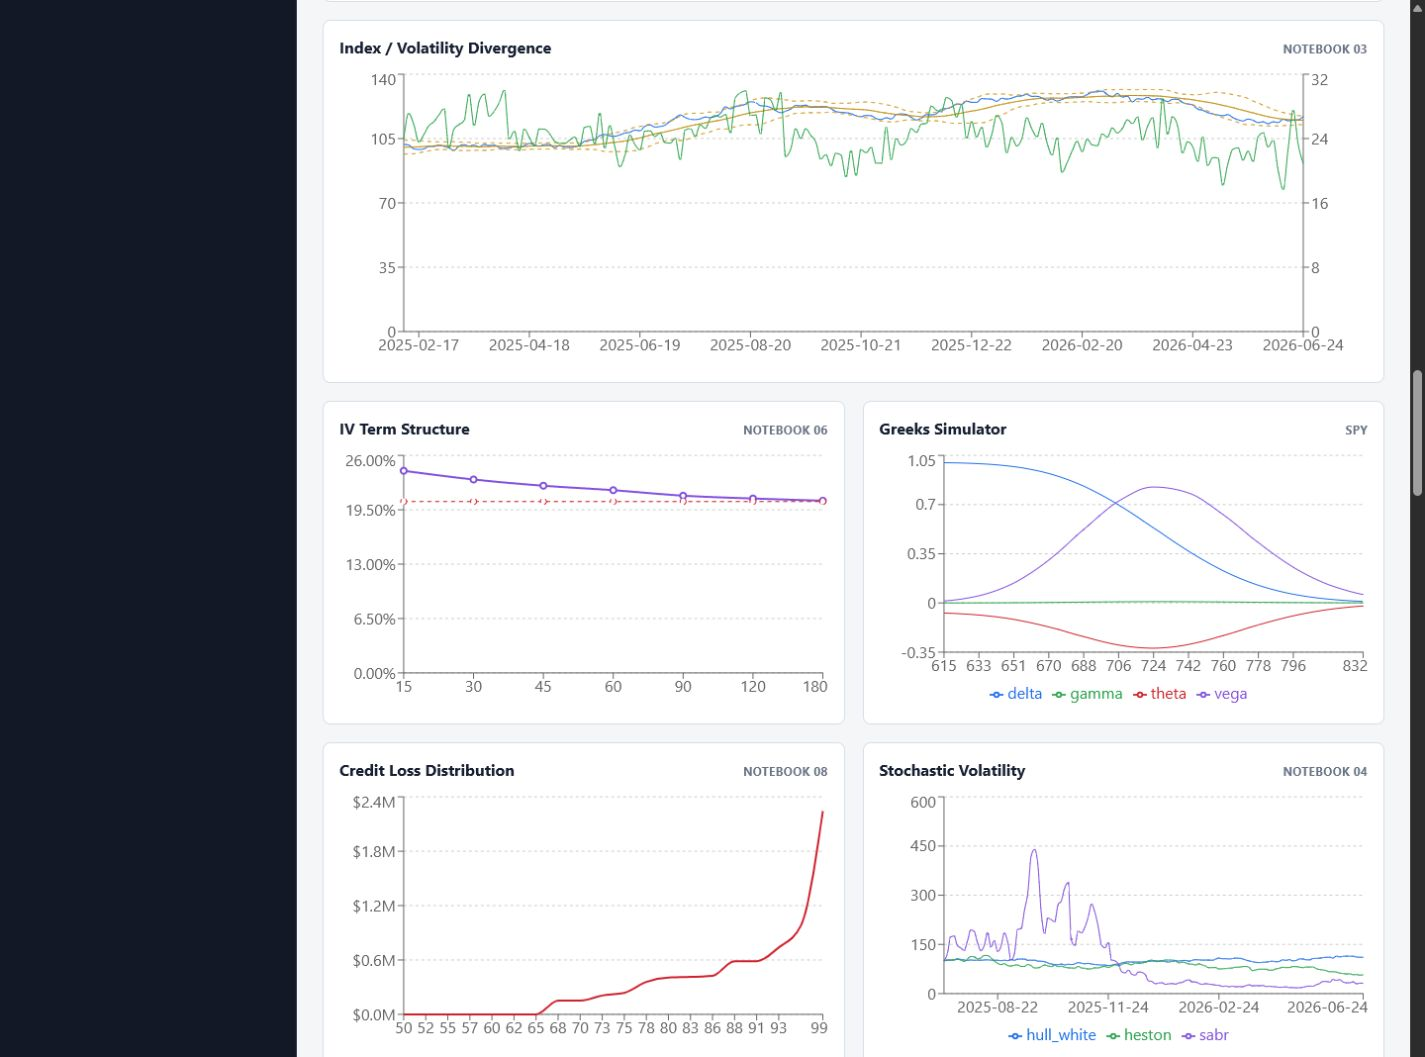
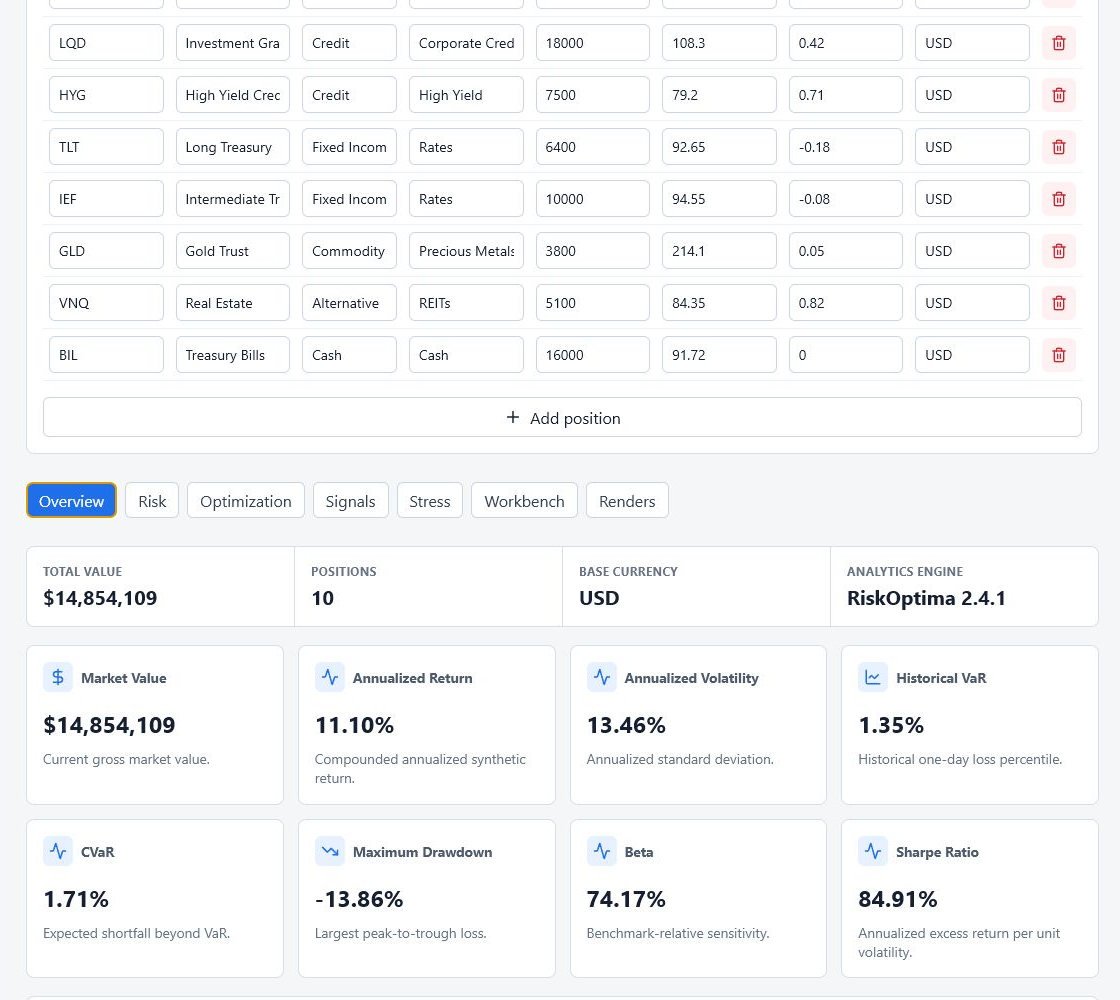
Refresh platform screenshots for RiskOptima 2.4.1

diff --git a/README.md b/README.md
@@ -10,21 +10,25 @@ The platform demonstrates a production-style quant workflow: editable portfolio 
 
 ## Screenshots
 
-Desktop dashboard:
+Portfolio risk overview with the current RiskOptima 2.4.1 engine:
 
 ![RiskOptima Platform desktop dashboard](docs/screenshots/dashboard-desktop.png)
 
-Live PyPI-backed run showing the analytics engine:
-
-![RiskOptima 2.3.5 engine summary](docs/screenshots/live-engine-summary-riskoptima-235.png)
-
 Risk dashboard in action:
 
-![RiskOptima live risk dashboard](docs/screenshots/live-risk-dashboard-riskoptima-235.png)
+![RiskOptima live risk dashboard](docs/screenshots/risk-dashboard-riskoptima-241.png)
 
 Efficient frontier and allocation comparison:
 
-![RiskOptima efficient frontier dashboard](docs/screenshots/live-efficient-frontier-riskoptima-235.png)
+![RiskOptima efficient frontier dashboard](docs/screenshots/efficient-frontier-riskoptima-241.png)
+
+RiskOptima notebook workbench:
+
+![RiskOptima notebook workbench](docs/screenshots/workbench-riskoptima-241.png)
+
+Economic calendar module:
+
+![RiskOptima economic calendar dashboard](docs/screenshots/economic-calendar-dashboard.png)
 
 Mobile dashboard:
 